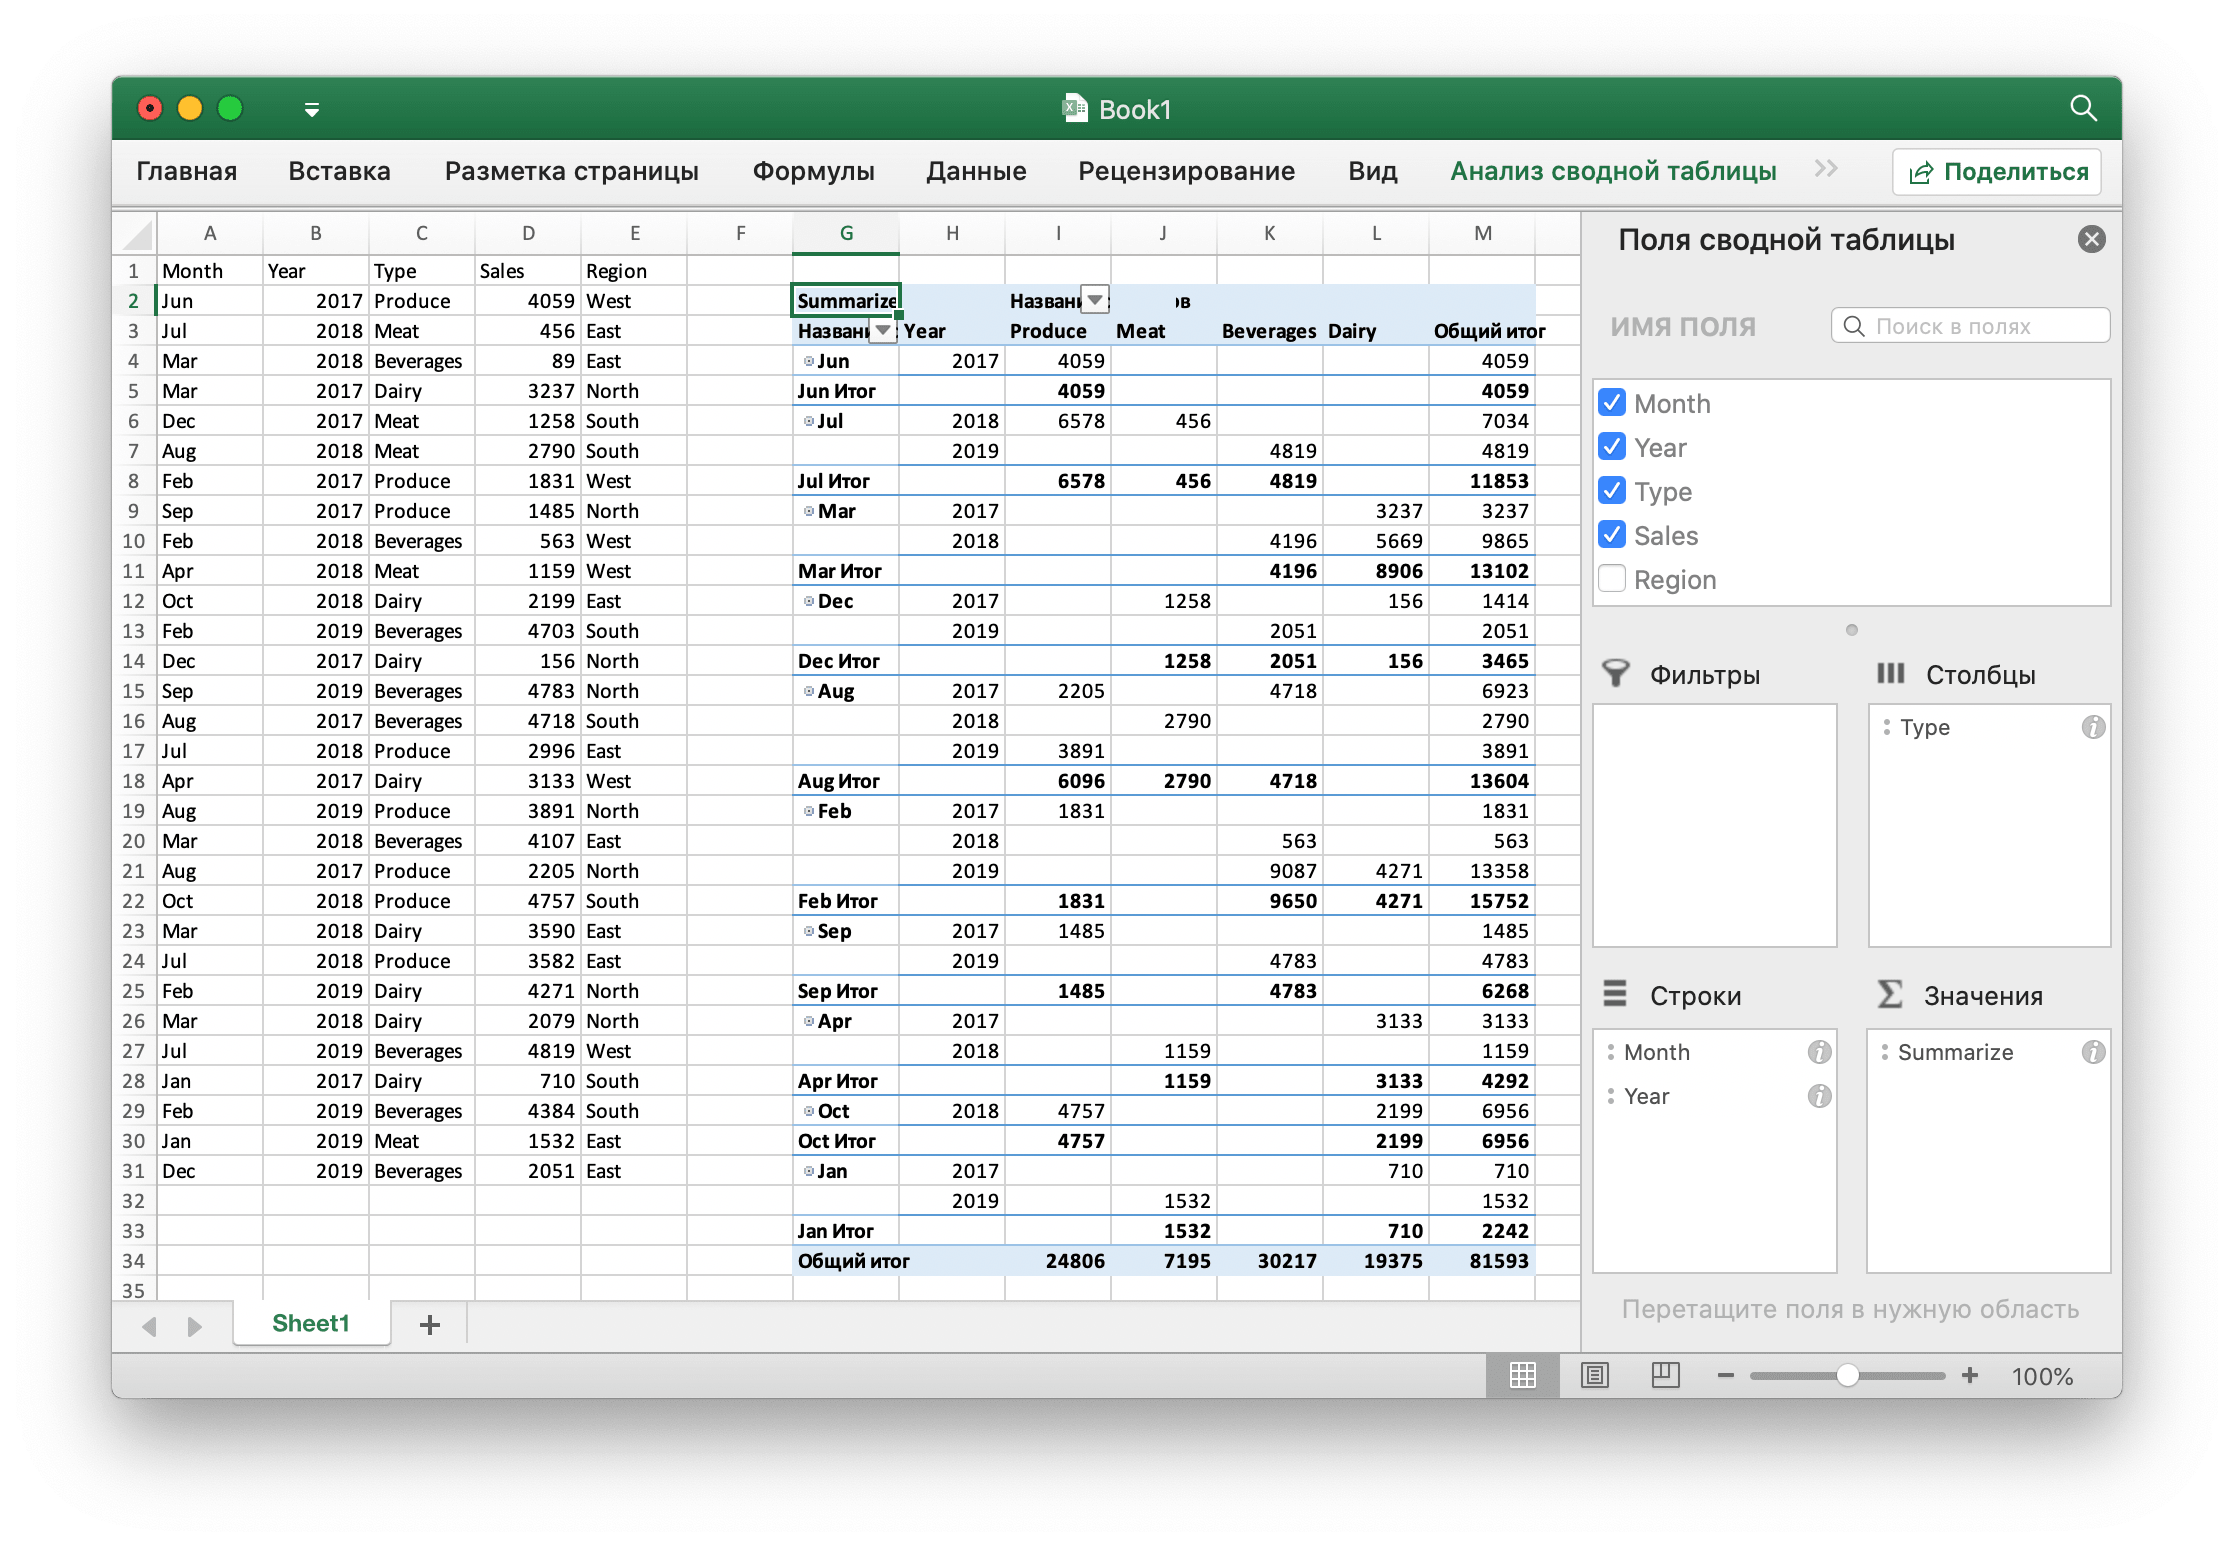
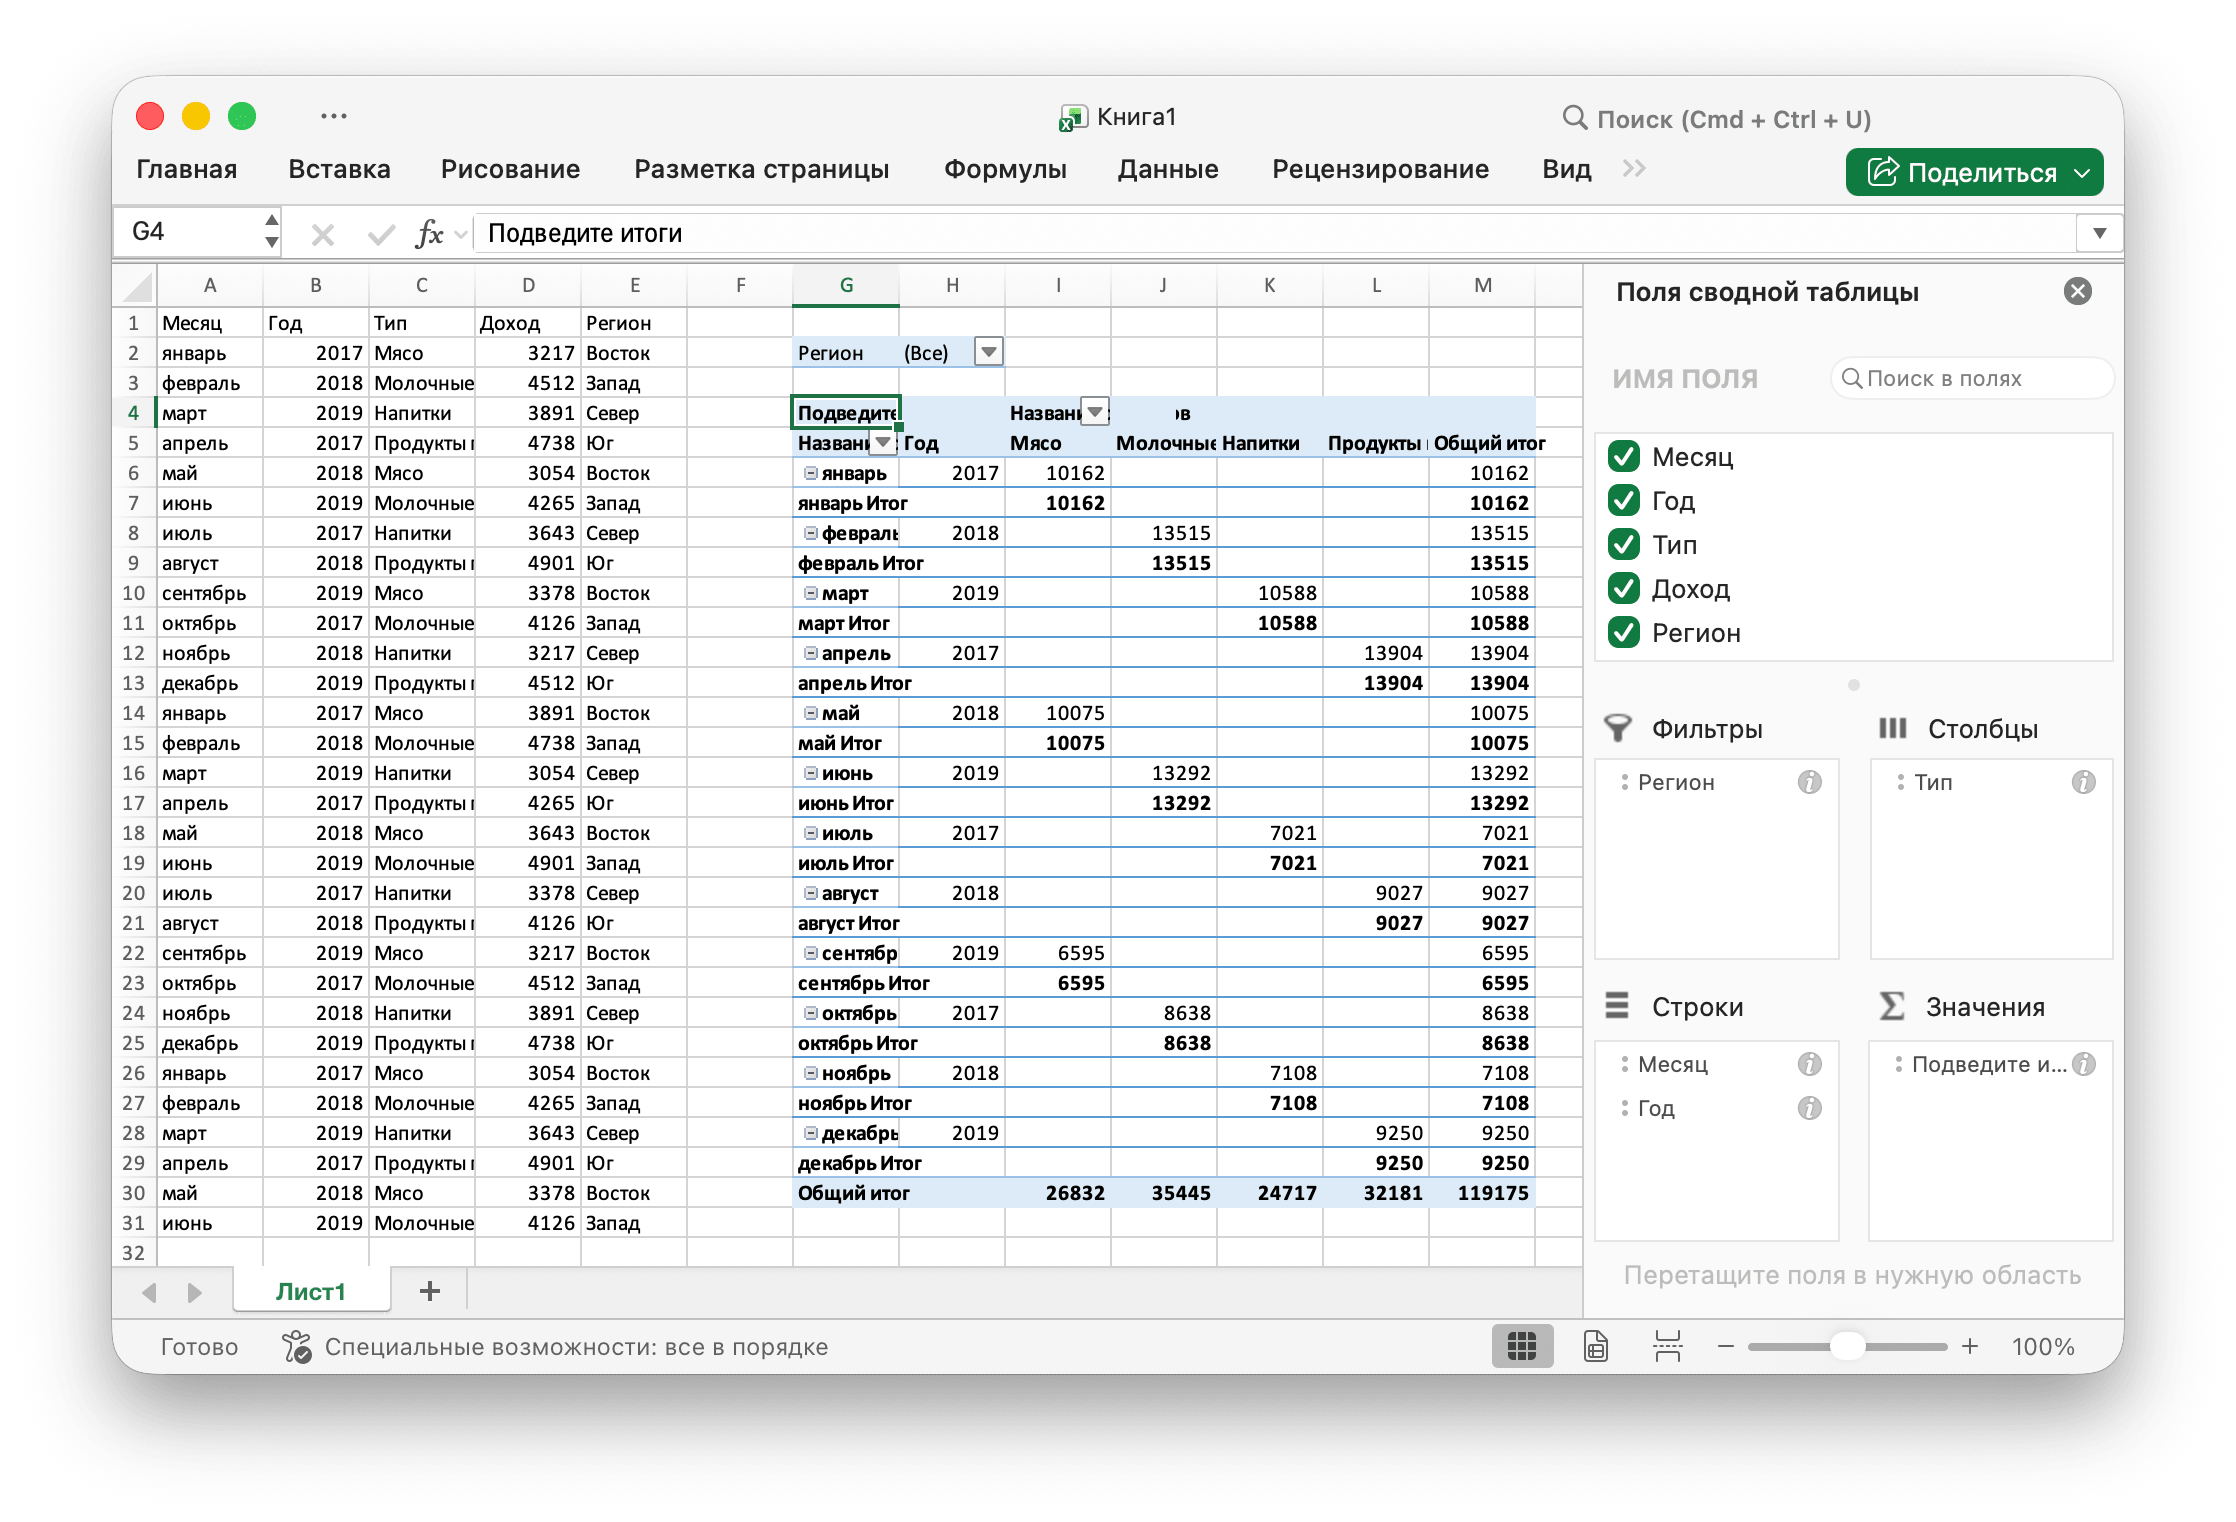
Update ru version docs for new SelectedItems fields in PivotTableOptions and SlicerOptions data type
- This related for xuri/excelize#2154, and xuri/excelize#2271

diff --git a/ru/pivot.md b/ru/pivot.md
@@ -55,6 +55,7 @@ type PivotTableField struct {
     Subtotal        string
     DefaultSubtotal bool
     NumFmt          int
+    SelectedItems   []string
 }
 ```
 
@@ -76,6 +77,8 @@ type PivotTableField struct {
 
 `Name` указывает имя поля данных. В имени поля данных допускается максимум `255` символов, лишние символы будут обрезаны.
 
+Параметр `SelectedItems` задает элементы, выбранные по умолчанию в поле сводной таблицы. Выбранные элементы должны быть значениями в диапазоне ячеек, на который ссылается это поле.
+
 ## Создать сводную таблицу {#AddPivotTable}
 
 ```go
@@ -84,16 +87,15 @@ func (f *File) AddPivotTable(opts *PivotTableOptions) error
 
 AddPivotTable предоставляет метод для добавления сводной таблицы с помощью заданных опций сводной таблицы.
 
-Например, создайте сводную таблицу в области `Sheet1!$G$2:$M$34` с регионом `Sheet1!$A$1:$E$31` в качестве источника данных, суммируйте по сумме продаж:
+Например, создайте сводную таблицу в области `Лист1!G4:M30` с регионом `Лист1!A1:E31` в качестве источника данных, суммируйте по сумме продаж:
 
-<p align="center"><img width="1117" src="./images/pivot_table_01.png" alt="создать сводную таблицу с Excelize с помощью Go"></p>
+<p align="center"><img width="1118" src="./images/pivot_table_01.png" alt="создать сводную таблицу с Excelize с помощью Go"></p>
 
 ```go
 package main
 
 import (
     "fmt"
-    "math/rand"
 
     "github.com/xuri/excelize/v2"
 )
@@ -105,31 +107,45 @@ func main() {
             fmt.Println(err)
         }
     }()
+    if err := f.SetSheetName("Sheet1", "Лист1"); err != nil {
+        fmt.Println(err)
+        return
+    }
     // Создать некоторые данные на листе
-    month := []string{"Jan", "Feb", "Mar", "Apr", "May",
-        "Jun", "Jul", "Aug", "Sep", "Oct", "Nov", "Dec"}
+    month := []string{"январь", "февраль", "март", "апрель", "май", "июнь",
+        "июль", "август", "сентябрь", "октябрь", "ноябрь", "декабрь"}
     year := []int{2017, 2018, 2019}
-    types := []string{"Meat", "Dairy", "Beverages", "Produce"}
-    region := []string{"East", "West", "North", "South"}
-    f.SetSheetRow("Sheet1", "A1", &[]string{"Month", "Year", "Type", "Sales", "Region"})
+    types := []string{"Мясо", "Молочные продукты", "Напитки", "Продукты питания"}
+    revenue := []int{3217, 4512, 3891, 4738, 3054, 4265, 3643, 4901, 3378, 4126}
+    region := []string{"Восток", "Запад", "Север", "Юг"}
+    if err := f.SetSheetRow(
+        "Лист1", "A1", &[]string{"Месяц", "Год", "Тип", "Доход", "Регион"},
+    ); err != nil {
+        fmt.Println(err)
+        return
+    }
     for row := 2; row < 32; row++ {
-        f.SetCellValue("Sheet1", fmt.Sprintf("A%d", row), month[rand.Intn(12)])
-        f.SetCellValue("Sheet1", fmt.Sprintf("B%d", row), year[rand.Intn(3)])
-        f.SetCellValue("Sheet1", fmt.Sprintf("C%d", row), types[rand.Intn(4)])
-        f.SetCellValue("Sheet1", fmt.Sprintf("D%d", row), rand.Intn(5000))
-        f.SetCellValue("Sheet1", fmt.Sprintf("E%d", row), region[rand.Intn(4)])
+        f.SetCellValue("Лист1", fmt.Sprintf("A%d", row), month[(row-2)%len(month)])
+        f.SetCellValue("Лист1", fmt.Sprintf("B%d", row), year[(row-2)%len(year)])
+        f.SetCellValue("Лист1", fmt.Sprintf("C%d", row), types[(row-2)%len(types)])
+        f.SetCellValue("Лист1", fmt.Sprintf("D%d", row), revenue[(row-2)%len(revenue)])
+        f.SetCellValue("Лист1", fmt.Sprintf("E%d", row), region[(row-2)%len(region)])
     }
     if err := f.AddPivotTable(&excelize.PivotTableOptions{
-        DataRange:       "Sheet1!A1:E31",
-        PivotTableRange: "Sheet1!G2:M34",
+        DataRange:       "Лист1!A1:E31",
+        PivotTableRange: "Лист1!G4:M30",
         Rows: []excelize.PivotTableField{
-            {Data: "Month", DefaultSubtotal: true}, {Data: "Year"}},
+            {Data: "Месяц", DefaultSubtotal: true}, {Data: "Год"},
+        },
         Filter: []excelize.PivotTableField{
-            {Data: "Region"}},
+            {Data: "Регион"},
+        },
         Columns: []excelize.PivotTableField{
-            {Data: "Type", DefaultSubtotal: true}},
+            {Data: "Тип", DefaultSubtotal: true},
+        },
         Data: []excelize.PivotTableField{
-            {Data: "Sales", Name: "Summarize", Subtotal: "Sum"}},
+            {Data: "Доход", Name: "Подведите итоги", Subtotal: "Sum"},
+        },
         RowGrandTotals: true,
         ColGrandTotals: true,
         ShowDrill:      true,
@@ -140,7 +156,7 @@ func main() {
         fmt.Println(err)
         return
     }
-    if err := f.SaveAs("Book1.xlsx"); err != nil {
+    if err := f.SaveAs("Книга1.xlsx"); err != nil {
         fmt.Println(err)
     }
 }

diff --git a/ru/README.md b/ru/README.md
@@ -9,7 +9,7 @@ EXCELIZE - это библиотека, написанная на чистом G
 - go.dev: [pkg.go.dev/github.com/xuri/excelize/v2](https://pkg.go.dev/github.com/xuri/excelize/v2)
 - Лицензии: [BSD 3-Clause](https://opensource.org/licenses/BSD-3-Clause)
 - Последняя версия: [v2.10.1](https://github.com/xuri/excelize/releases/latest)
-- Время обновления документа: 11 марш 2026 г.
+- Время обновления документа: 28 марш 2026 г.
 
 ## Миссия проекта
 
